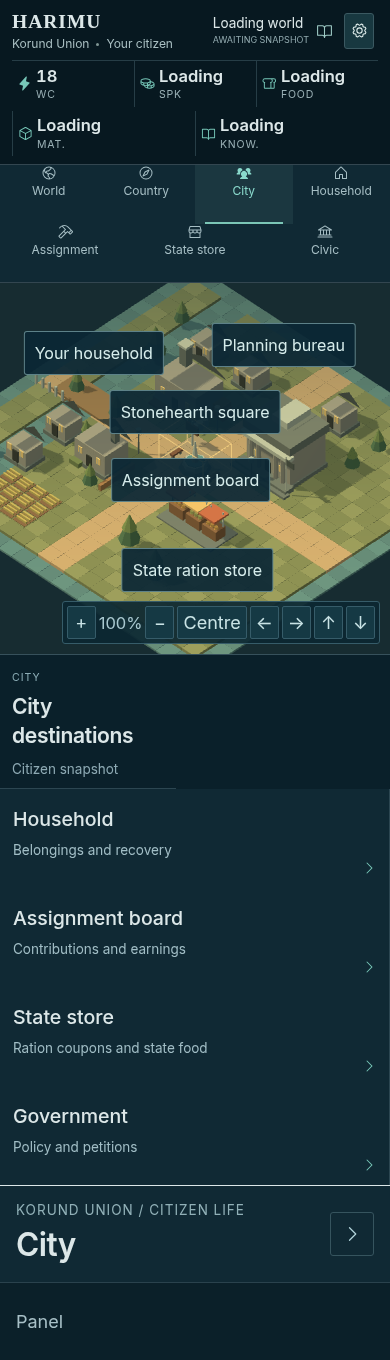
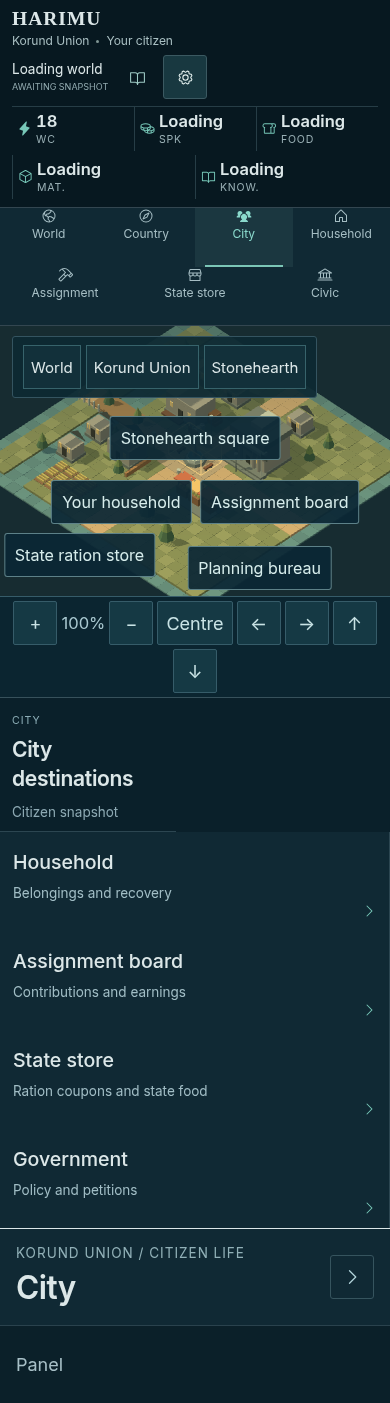
City labels keep clear of the breadcrumb and shift chip; search the whole canvas; check and screenshots (Refs #377)

diff --git a/lib/game-viewport.ts b/lib/game-viewport.ts
@@ -33,24 +33,30 @@ export type LabelBox = { x: number; y: number; w: number; h: number };
 /**
  * #377: keep scene labels readable on a phone. Each box is anchored at its bottom centre (x, y), the way the viewport draws it. Returns the same boxes
  * moved so that none leaves the area (a label at the edge was cut off) and, when two would overlap, the later one is stepped up or down by one label
- * height until it is clear (a label was hidden behind others). Boxes that already fit are returned unchanged, so uncrowded desktop scenes do not move.
+ * height until it is clear (a label was hidden behind others). `blocked` boxes (same anchor convention) are fixed obstacles that labels also keep clear of. Boxes that already fit are returned unchanged, so uncrowded desktop scenes do not move.
  */
-export function placeLabels(boxes: LabelBox[], area: { w: number; h: number }, gap = 4): LabelBox[] {
-  const placed: LabelBox[] = [];
+export function placeLabels(boxes: LabelBox[], area: { w: number; h: number }, gap = 4, blocked: LabelBox[] = []): LabelBox[] {
+  const placed: LabelBox[] = [...blocked]; // fixed obstacles (the breadcrumb and shift chip over the canvas) that labels keep clear of; not returned
   const clampX = (b: LabelBox, x: number) => b.w + gap * 2 > area.w ? area.w / 2 : Math.max(b.w / 2 + gap, Math.min(area.w - b.w / 2 - gap, x));
   const clampY = (b: LabelBox, y: number) => Math.max(b.h + gap, Math.min(area.h - gap, y));
   const clashes = (a: LabelBox) => placed.filter(b => Math.abs(a.x - b.x) < (a.w + b.w) / 2 + gap && Math.abs((a.y - a.h / 2) - (b.y - b.h / 2)) < (a.h + b.h) / 2 + gap).length;
-  for (const box of boxes) {
+  // Labels that start on an obstacle go first, while there is still room to put them somewhere clear; the rest keep their order.
+  const hitsBlocked = (b: LabelBox) => blocked.some(o => Math.abs(b.x - o.x) < (b.w + o.w) / 2 + gap && Math.abs((b.y - b.h / 2) - (o.y - o.h / 2)) < (b.h + o.h) / 2 + gap);
+  const order = boxes.map((box, index) => index).sort((a, b) => Number(hitsBlocked(boxes[b])) - Number(hitsBlocked(boxes[a])) || a - b);
+  const result: LabelBox[] = [];
+  for (const index of order) {
+    const box = boxes[index];
     const start = { ...box, x: clampX(box, box.x), y: clampY(box, box.y) };
-    // Try the spot itself, then steps up or down by one label height (and sideways by half a label), nearest first; keep the least-crowded spot if none is clear.
-    const tries = [0, 1, -1, 2, -2, 3, -3, 4, -4].flatMap(row => [0, 1, -1, 2, -2].map(col => ({ row, col }))).sort((a, b) => Math.abs(a.row) * 2 + Math.abs(a.col) - Math.abs(b.row) * 2 - Math.abs(b.col));
+    // Try the spot itself, then spots half a label height up or down and a quarter label sideways, nearest first, over the whole canvas; keep the least-crowded spot if none is clear.
+    const reach = Math.ceil(area.h / ((box.h + gap) / 2)), tries = Array.from({ length: reach * 2 + 1 }, (_, i) => i - reach).flatMap(row => Array.from({ length: 13 }, (_, i) => i - 6).map(col => ({ row, col })))
+      .sort((a, b) => Math.hypot(a.row * (box.h + gap) / 2, a.col * (box.w / 4 + gap)) - Math.hypot(b.row * (box.h + gap) / 2, b.col * (box.w / 4 + gap)));
     let best = start, fewest = clashes(start);
     for (const { row, col } of tries) {
       if (!fewest) break;
-      const spot = { ...box, x: clampX(box, start.x + col * (box.w / 2 + gap)), y: clampY(box, start.y + row * (box.h + gap)) }, n = clashes(spot);
+      const spot = { ...box, x: clampX(box, start.x + col * (box.w / 4 + gap)), y: clampY(box, start.y + row * (box.h + gap) / 2) }, n = clashes(spot);
       if (n < fewest) { best = spot; fewest = n; }
     }
-    placed.push(best);
+    placed.push(best); result[index] = best;
   }
-  return placed;
+  return result;
 }

diff --git a/app/game-viewport.tsx b/app/game-viewport.tsx
@@ -121,7 +121,10 @@ export function GameViewport({ mode, nationId, cityName, marketOpen = true, nati
       });
       if (mode === 'city') { // #377: labels stay inside the canvas and out of each other's way (a phone has little room)
         const shown = labels.filter(({ button }) => !button.hidden && button.offsetWidth > 0);
-        const spots = placeLabels(shown.map(({ button }) => ({ x: parseFloat(button.style.left), y: parseFloat(button.style.top), w: button.offsetWidth, h: button.offsetHeight })), { w, h });
+        const here = container.getBoundingClientRect(); // the breadcrumb and shift chip float over the canvas: labels keep clear of them
+        const blocked = [...(container.closest('.harimu-game')?.querySelectorAll('.game-stage-overlay > *') ?? [])].map(el => el.getBoundingClientRect()).filter(r => r.width > 0 && r.height > 0)
+          .map(r => ({ x: r.left - here.left + r.width / 2, y: r.bottom - here.top, w: r.width, h: r.height })).filter(b => b.y > 0 && b.y - b.h < h && b.x + b.w / 2 > 0 && b.x - b.w / 2 < w);
+        const spots = placeLabels(shown.map(({ button }) => ({ x: parseFloat(button.style.left), y: parseFloat(button.style.top), w: button.offsetWidth, h: button.offsetHeight })), { w, h }, 4, blocked);
         shown.forEach(({ button }, index) => { button.style.left = `${spots[index].x}px`; button.style.top = `${spots[index].y}px`; });
       }
       if (highlight.visible) highlight.update();
@@ -155,6 +158,7 @@ export function GameViewport({ mode, nationId, cityName, marketOpen = true, nati
     controls.current = { zoom: changeZoom, pan, reset: () => { userCamera.current?.(); target.set(0, 0, 0); zoom = 1; setCameraLabel('100%'); highlight.visible = false; render(); }, focus, focusNation };
     const resize = () => { renderer.setSize(Math.max(1, container.clientWidth), Math.max(1, container.clientHeight), false); render(); };
     const observer = new ResizeObserver(resize); observer.observe(container); resize();
+    container.closest('.harimu-game')?.querySelectorAll('.game-stage-overlay > *').forEach(el => observer.observe(el)); // #377: re-place labels when the breadcrumb or shift chip changes size
     const raycaster = new THREE.Raycaster();
     let dragging: { x: number; y: number; total: number } | null = null;
     const down = (event: PointerEvent) => {
